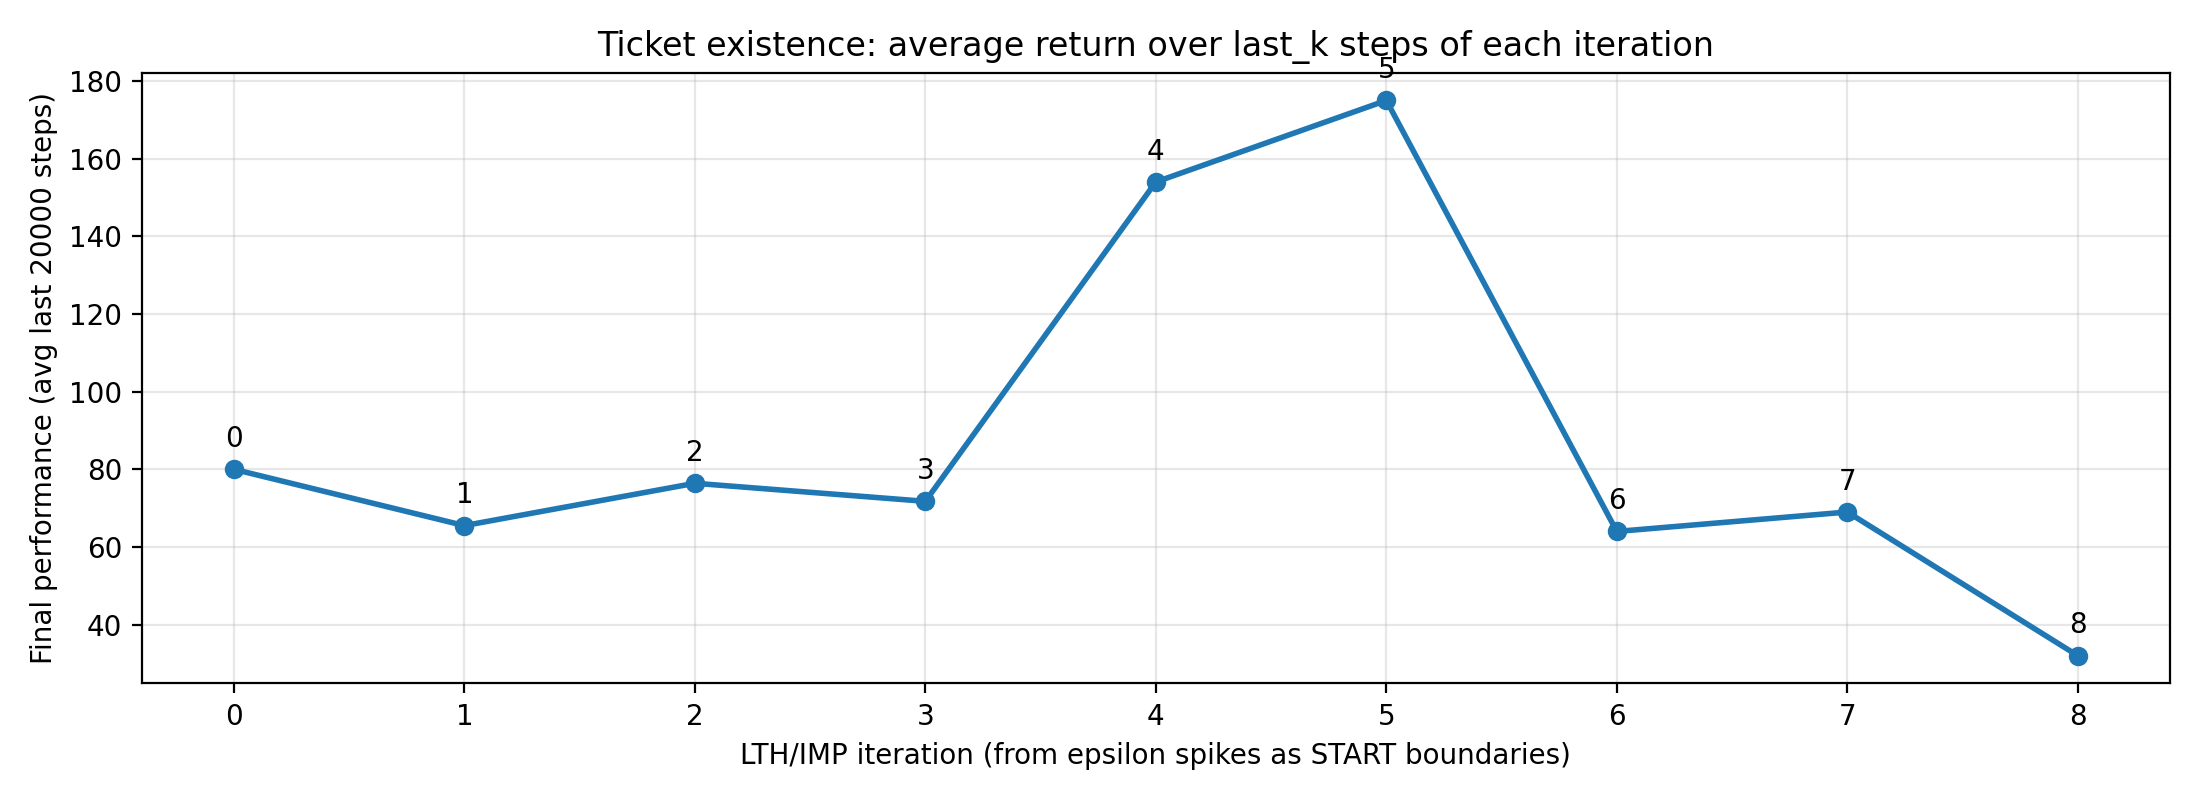
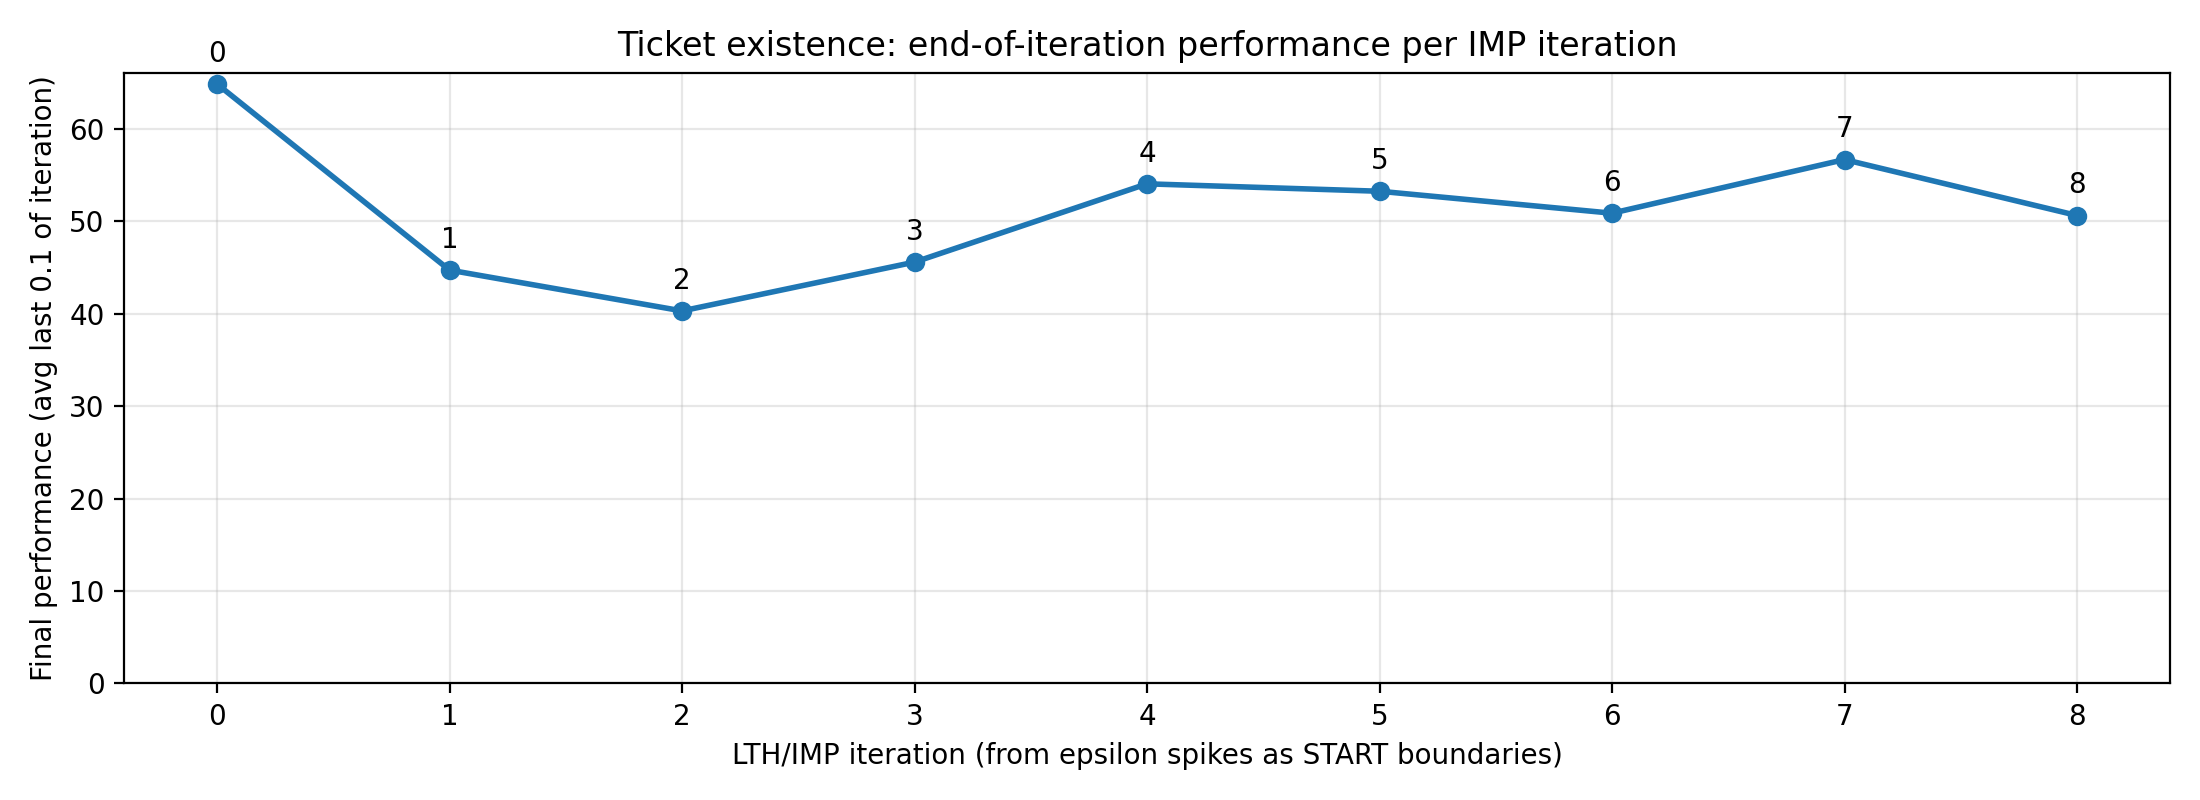
fix on how we calculate average return of last few steps to show existance of lottery ticket

diff --git a/plot_lth_ticket_exists_from_epsilon.py b/plot_lth_ticket_exists_from_epsilon.py
@@ -1,14 +1,17 @@
 """
-how to run:
+Ticket existence plot (fraction-based tail averaging)
+
+How to run:
 
 python3 plot_lth_ticket_exists_from_epsilon.py \
-  --return_csv data_expected_return/space_invaders_S60_s1.csv \
-  --epsilon_csv data_epsilon/space_invaders_S60_s1.csv \
+  --return_csv data_expected_return/breakout_S60_s3.csv \
+  --epsilon_csv data_epsilon/breakout_S60_s3.csv \
   --eps_high 0.9 \
   --min_gap_steps 1000000 \
-  --last_k 20000
-
+  --last_frac 0.1 \
+  --frac_mode points
 """
+
 import argparse
 import pandas as pd
 import numpy as np
@@ -54,7 +57,19 @@ def detect_spike_steps(eps_df, eps_high=0.9, min_gap_steps=500_000):
             last = float(s)
     return np.array(spikes, dtype=float)
 
-def summarize_return_by_start_intervals(ret_df, starts, last_k_steps=20000):
+def summarize_return_by_start_intervals_fraction(ret_df, starts, last_frac=0.1, frac_mode="points"):
+    """
+    Iteration i is [starts[i], starts[i+1]) with a final tail [starts[-1], end].
+
+    Compute avg episodic return over the LAST FRACTION of each iteration.
+
+    frac_mode:
+      - "points": last ceil(frac * N_points) logged points in the iteration (recommended)
+      - "steps":  last frac of env-step span in that iteration
+    """
+    if not (0.0 < last_frac <= 1.0):
+        raise ValueError("--last_frac must be in (0, 1].")
+
     ret_steps = ret_df["step"].to_numpy()
     ret_vals  = ret_df["value"].to_numpy()
 
@@ -70,29 +85,60 @@ def summarize_return_by_start_intervals(ret_df, starts, last_k_steps=20000):
         if not np.any(mask):
             rows.append({
                 "iteration": i,
-                "iter_start_step": a,
-                "iter_end_step": a,
-                "avg_return_last_k": np.nan,
+                "iter_start_step": float(a),
+                "iter_end_step": float(a),
+                "avg_return_tail": np.nan,
                 "end_return": np.nan,
-                "n_points": 0
+                "n_points": 0,
+                "tail_points_used": 0,
+                "tail_frac": float(last_frac),
+                "frac_mode": frac_mode
             })
             continue
 
         seg_steps = ret_steps[mask]
         seg_vals  = ret_vals[mask]
         last_step = float(seg_steps.max())
+        end_ret   = float(seg_vals[-1])
+        n = len(seg_vals)
 
-        wmask = seg_steps >= (last_step - last_k_steps)
-        if not np.any(wmask):
-            wmask = np.ones_like(seg_steps, dtype=bool)
+        if frac_mode == "points":
+            tail_n = int(np.ceil(last_frac * n))
+            tail_n = max(tail_n, 1)
+            tail_vals = seg_vals[-tail_n:]
+            avg_tail = float(np.mean(tail_vals))
+            tail_points_used = tail_n
+
+        elif frac_mode == "steps":
+            span = float(last_step - float(seg_steps.min()))
+            # if span is ~0 (rare), fall back to points
+            if span <= 0:
+                tail_n = max(int(np.ceil(last_frac * n)), 1)
+                tail_vals = seg_vals[-tail_n:]
+                avg_tail = float(np.mean(tail_vals))
+                tail_points_used = tail_n
+            else:
+                tail_start = last_step - last_frac * span
+                wmask = seg_steps >= tail_start
+                if not np.any(wmask):
+                    wmask = np.ones_like(seg_steps, dtype=bool)
+                tail_vals = seg_vals[wmask]
+                avg_tail = float(np.mean(tail_vals))
+                tail_points_used = int(np.sum(wmask))
+
+        else:
+            raise ValueError("--frac_mode must be 'points' or 'steps'.")
 
         rows.append({
             "iteration": i,
-            "iter_start_step": a,
-            "iter_end_step": last_step,
-            "avg_return_last_k": float(np.mean(seg_vals[wmask])),
-            "end_return": float(seg_vals[-1]),
-            "n_points": int(mask.sum())
+            "iter_start_step": float(a),
+            "iter_end_step": float(last_step),
+            "avg_return_tail": avg_tail,
+            "end_return": end_ret,
+            "n_points": int(mask.sum()),
+            "tail_points_used": int(tail_points_used),
+            "tail_frac": float(last_frac),
+            "frac_mode": frac_mode
         })
 
     return pd.DataFrame(rows)
@@ -106,8 +152,16 @@ def main():
     ap.add_argument("--epsilon_col", default=None)
     ap.add_argument("--eps_high", type=float, default=0.9)
     ap.add_argument("--min_gap_steps", type=float, default=500_000)
-    ap.add_argument("--last_k", type=float, default=20000)
-    ap.add_argument("--use_end_return", action="store_true")
+
+    # NEW: fraction-based tail averaging (ticket existence)
+    ap.add_argument("--last_frac", type=float, default=0.1,
+                    help="Fraction of each iteration to average over at the end (e.g., 0.1 = last 10%).")
+    ap.add_argument("--frac_mode", choices=["points", "steps"], default="points",
+                    help="How to define the last fraction: by logged points (recommended) or by env-step span.")
+
+    ap.add_argument("--use_end_return", action="store_true",
+                    help="Plot end_return instead of avg_return_tail (not recommended for ticket existence).")
+
     args = ap.parse_args()
 
     # Output directories
@@ -136,10 +190,14 @@ def main():
     print(f"[epsilon] starts detected: {len(starts)}")
     print("[epsilon] start steps:", starts)
 
-    summ = summarize_return_by_start_intervals(ret_df, starts, last_k_steps=args.last_k)
+    summ = summarize_return_by_start_intervals_fraction(
+        ret_df, starts,
+        last_frac=args.last_frac,
+        frac_mode=args.frac_mode
+    )
     summ = summ.sort_values("iteration").reset_index(drop=True)
 
-    metric = "end_return" if args.use_end_return else "avg_return_last_k"
+    metric = "end_return" if args.use_end_return else "avg_return_tail"
     x = summ["iteration"].to_numpy()
     y = summ[metric].to_numpy()
 
@@ -158,10 +216,14 @@ def main():
     plt.xlabel("LTH/IMP iteration (from epsilon spikes as START boundaries)")
     plt.ylabel(
         "Final performance" +
-        (" (end return)" if args.use_end_return else f" (avg last {args.last_k:g} steps)")
+        (f" (end return)" if args.use_end_return else f" (avg last {args.last_frac:g} of iteration)")
     )
-    plt.title("Ticket existence: average return over last_k steps of each iteration")
+    plt.title("Ticket existence: end-of-iteration performance per IMP iteration")
     plt.grid(True, alpha=0.3)
+
+    # force y-axis to start at 0
+    plt.ylim(bottom=0)
+
     plt.tight_layout()
 
     plot_path = os.path.join(plots_dir, f"{base}.png")
